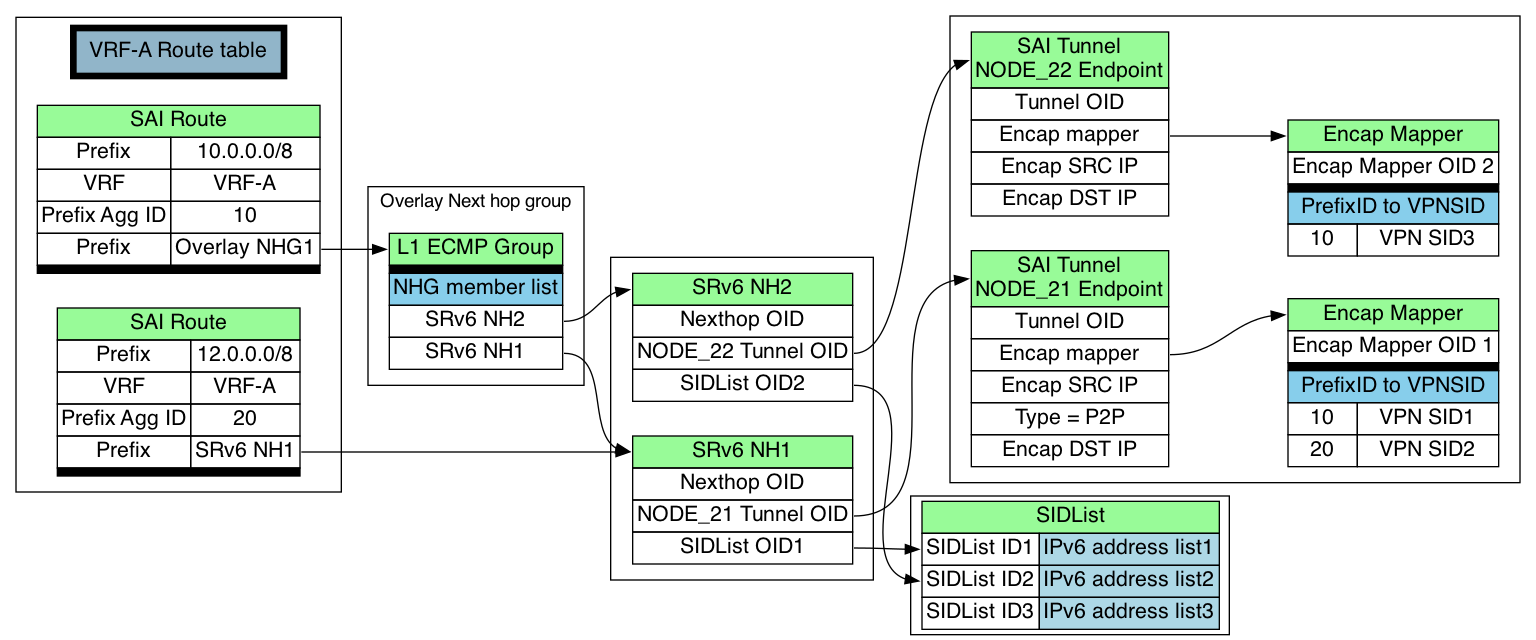
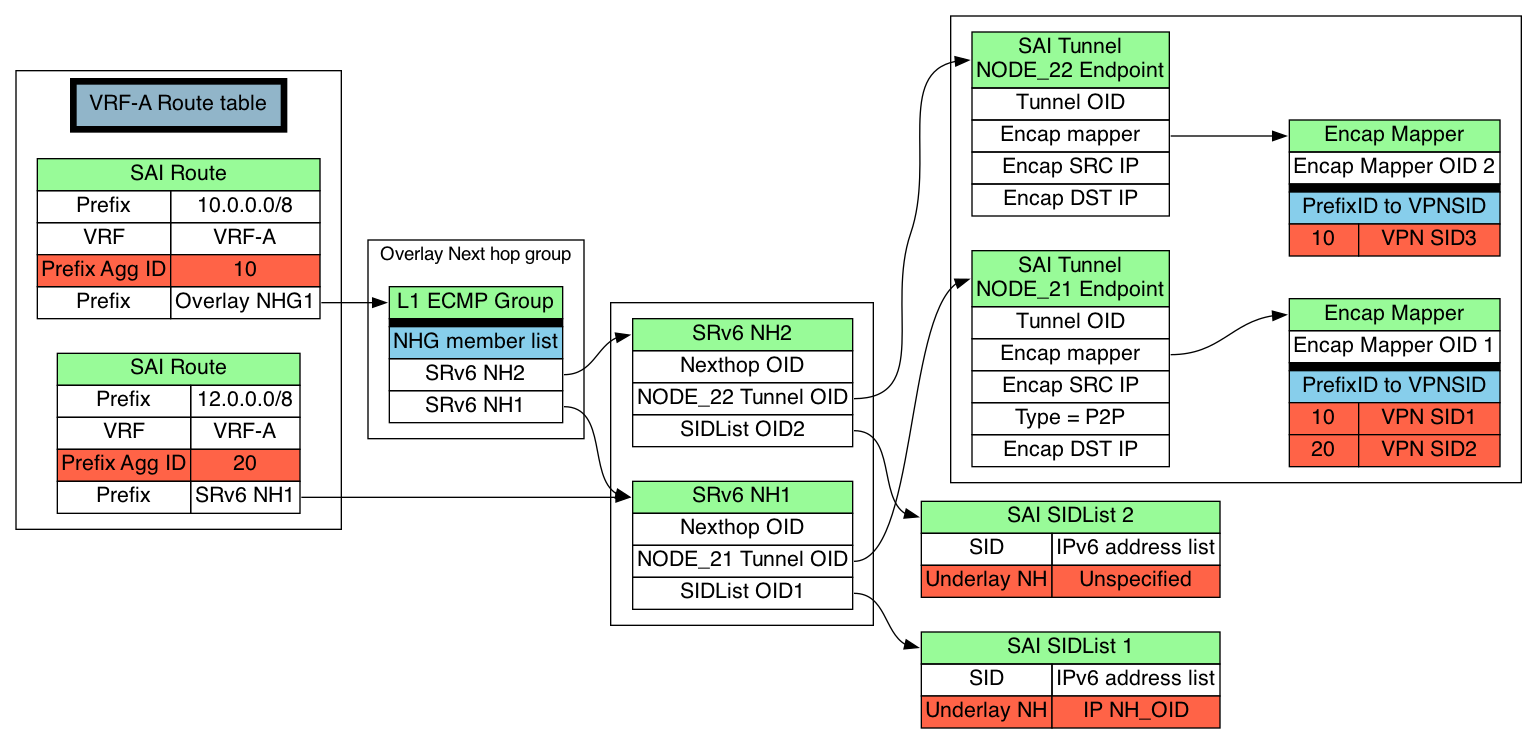
Update the VPN diagram to display segment list numbers. Add color to highlight new SAI objects
---

diff --git a/doc/SAI-IPv6-Segment-Routing-VPN.md b/doc/SAI-IPv6-Segment-Routing-VPN.md
@@ -142,8 +142,12 @@ __Figure 1: SRv6 pipeline__
 ## SAI Changes
 
 ### Prefix Aggregation ID
-When multiple prefixes use the same set of remote SRv6 Endpoint(s) but with different VPN SID values, prefix aggregation id allows SAI to derive different VPN SID while using same destination (NH or Next hop group).
-Prefix aggregation ID is a unique number that can be associated to a single destination, an NH (end point) or a Next hop group (set of end points). The use of prefix aggregation ID allows sharing of hardware resources depending on the hardware.
+Prefix Aggregation ID is a number that identifies a target on the overlay
+network, such as a VPN service. The route can be associated to a single SRv6
+Next Hop (Endpoint) or a Next hop group of SRv6 NH's for the VPN. Prefix
+Aggregation Id allows SAI to derive VPN SID per SRv6 Endpoint (SRv6 Tunnel)
+when muliple SRv6 Endpoints are part of the VPN service.
+
 The tunnel map entry table is programmed with the prefix aggregation id to VPN SID mapping.
 
 ### NULL SIDList / SIDList with empty list
@@ -154,12 +158,21 @@ SIDList with empty sidlist array could be used for cases where the encapsulated 
 Every SRv6 End node is represented by a SAI P2P Tunnel entry. All the VPN SIDs on this end node are specified using a tunnel map.
 
 ### Tunnel Map
-Tunnel Map entry table is contains the VPN SID associated to the remote end node.
+Tunnel Map entry table contains mapping of Prefix aggregation ID to VPN SID of the remote end node.
 
 ### SAI Object relationship
 
+The diagram below shows the objects and relationship. The diagram only shows relevant fields in the different tables.
+
+NOTE: Below object types have been combined to keep the diagram simple.
+* Next hop group and member list
+* Tunnel map and Tunnel map entry table
+
+New objects are highlighed in RED.
+
 ![SAI SRv6 Encap model](figures/sai_srv6_encap_model.png "Figure 1: SRv6 VPN Encap model ")
 __Figure 1: SRv6 VPN Encap model.__
+
 
 ### SRv6 VPN Programming steps using Tunnel maps
 - Create SAI tunnel for end node.
